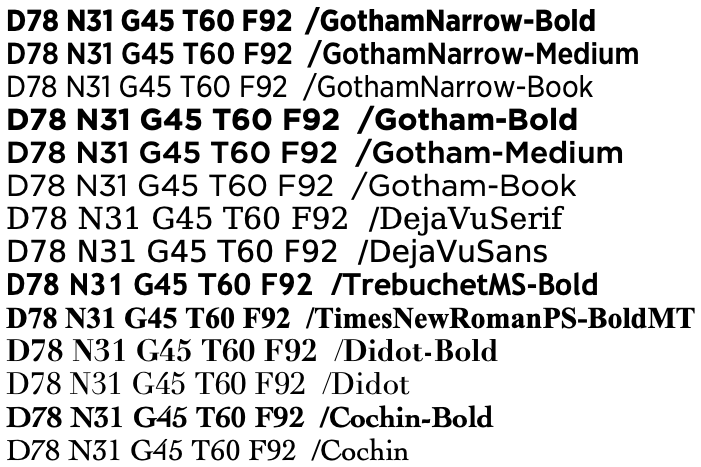
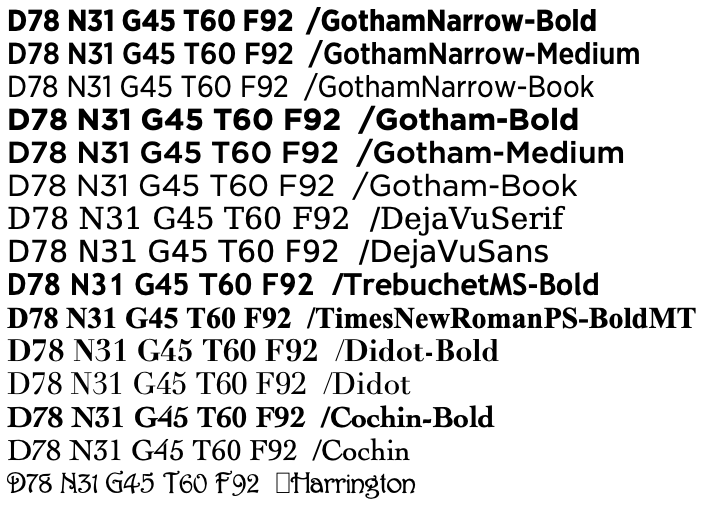
Re-adding Harrington to example fonts

diff --git a/Documentation/fonts_glasses_decoration.md b/Documentation/fonts_glasses_decoration.md
@@ -84,7 +84,7 @@ Two font parameters are set to particular fonts, the other font parameters copyi
 
 <div align="center">
 
-[![Font examples, including from families Gotham, DejaVuSerif, DejaVuSans, Trebuchet, Times, Didot, Cochin](images/font_examples.png)](images/font_examples.pdf)
+[![Font examples, including from families Gotham, DejaVuSerif, DejaVuSans, Trebuchet, Times, Didot, Cochin, Harrington](images/font_examples.png)](images/font_examples.pdf)
 
 </div>
 
